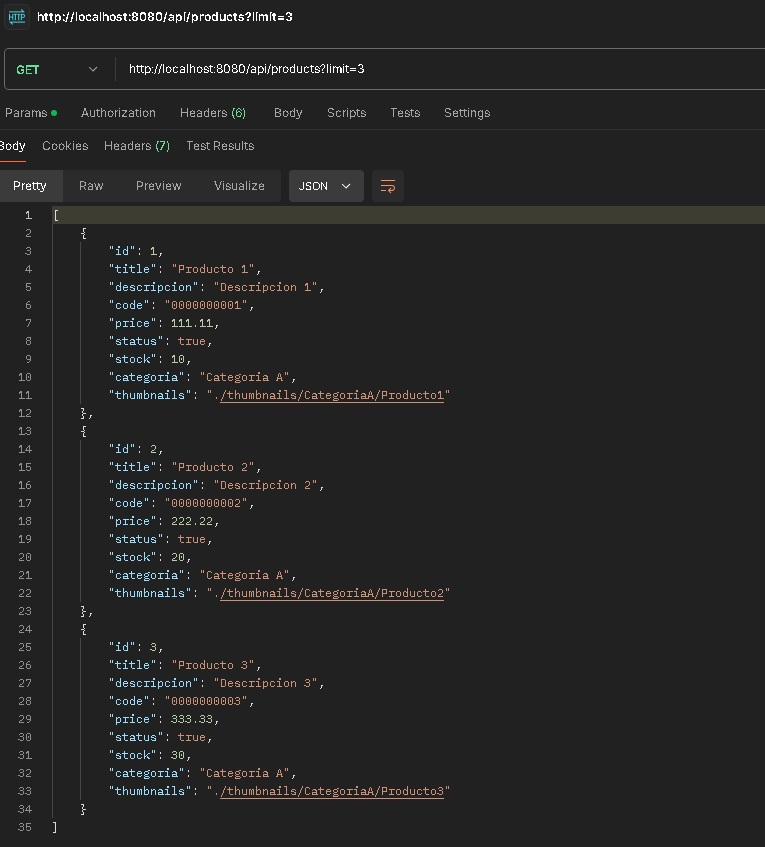
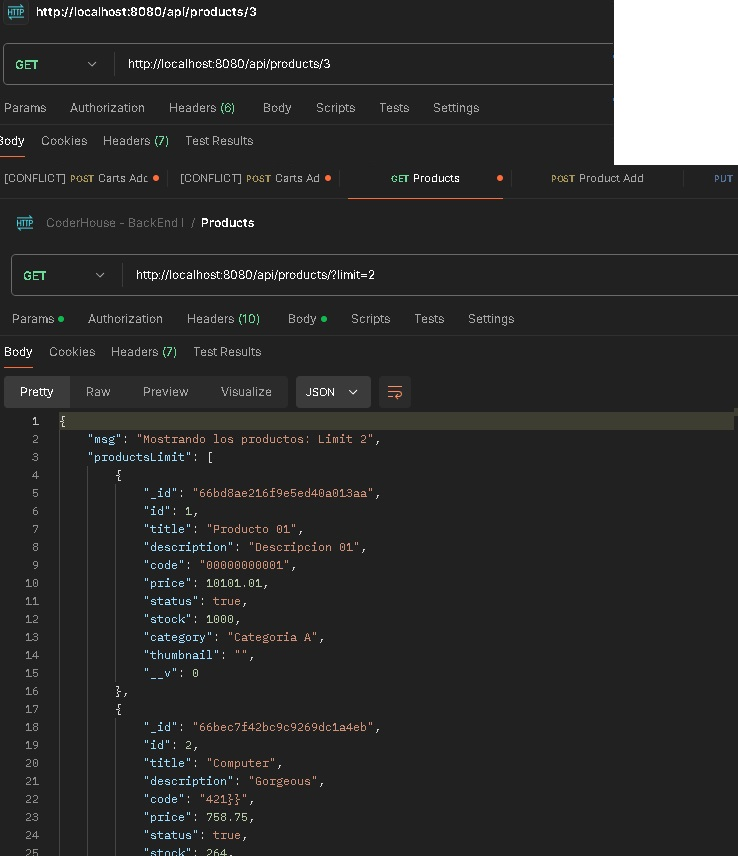
readme Productos

diff --git a/src/public/js/index.js b/src/public/js/index.js
@@ -1,5 +1,145 @@
-/* io hace referencia a socket.io */
-const socket = io()
+// Conectar al servidor de Socket.io
+const socket = io();
 
-socket.emit('message', 'Soy un mensaje enviado')
+// Escuchar eventos de conexión y desconexión
+socket.on("connect", () => {
+  console.log("Cliente conectado al servidor");
+});
 
+socket.on("disconnect", () => {
+  console.log("Cliente desconectado del servidor");
+});
+
+// Función para crear un nuevo carrito
+const createNewCart = async () => {
+  try {
+    const response = await fetch("/api/carts", {
+      method: "POST",
+      headers: {
+        "Content-Type": "application/json",
+      },
+    });
+
+    if (response.ok) {
+      const data = await response.json();
+      localStorage.setItem("cartId", data.newCart._id);
+      socket.emit("cartId", data.newCart._id);
+      tostada("!Bienvenido! Tu carrito te espera");
+      console.log(`Nuevo carrito creado con ID: ${data.newCart._id}`);
+      return data.newCart._id;
+    } else {
+      console.error("Error al crear el carrito:", response.statusText);
+      return null;
+    }
+  } catch (error) {
+    console.error("Error en la solicitud:", error);
+    return null;
+  }
+};
+
+// Verificar si el ID del carrito ya está en localStorage
+const getCartId = async () => {
+  let cartId = localStorage.getItem("cartId");
+
+  if (!cartId) {
+    cartId = await createNewCart();
+  }
+  socket.emit("cartId", cartId);
+
+  return cartId;
+};
+
+//Función de cantidad total en el carrito para obtener el cart count.
+const getQT = async () => {
+  let cartId = localStorage.getItem("cartId");
+  try {
+    const response = await fetch(`/api/carts/${cartId}/QT`);
+    if (response.ok) {
+      const data = await response.json();
+      cartCount.innerText = data.totalProductos;
+    } else {
+      console.error(`Error al cargar QT: ${response.statusText}`);
+    }
+  } catch (error) {
+    console.error("Error:", error);
+  }
+};
+
+const cartCount = document.getElementById("cartCount");
+if (cartCount) {
+  getQT();
+}
+
+// Escuchar actualizaciones de productos desde el servidor
+socket.on("Cart Update", (updatedCart) => {
+  console.log("Carrito actualizado:", updatedCart);
+  const cartCount = document.getElementById("cartCount");
+  if (cartCount) {
+    getQT();
+  }
+});
+
+// Función para actualizar el enlace del carrito
+const updateCartLink = async () => {
+  const cartId = await getCartId();
+  if (cartId) {
+    const cartLink = document.getElementById("cartLink");
+    cartLink.href = `/carts/${cartId}`;
+    console.log(`Carrito ya existente con ID: ${cartId}`);
+  }
+};
+
+// Función para agregar un producto al carrito
+const addToCart = async (productId) => {
+  const cartId = await getCartId();
+  if (cartId) {
+    try {
+      const response = await fetch(
+        `/api/carts/${cartId}/product/${productId}`,
+        {
+          method: "PUT",
+          headers: {
+            "Content-Type": "application/json",
+          },
+          body: JSON.stringify({ productId }),
+        }
+      );
+
+      if (response.ok) {
+        tostada("Producto agreado al carrito.");
+        socket.emit("Product Update", productId);
+      } else {
+        throw new Error("No se pudo agregar el producto al carrito");
+      }
+    } catch (error) {
+      console.error("Error:", error);
+      tostada("Error al agregar el producto al carrito");
+    }
+  }
+};
+
+// Escuchar el evento Product Update y actualizar la vista
+socket.on("Product Update", (updatedProduct) => {
+  console.log("Producto Actualizado:", updatedProduct);
+
+  const stockElement = document.querySelector(
+    `p[data-product-ids="${updatedProduct._id}"]`
+  );
+
+  if (stockElement) {
+    // Actualizar el stock en la vista
+    stockElement.innerHTML = `Stock: ${updatedProduct.stock}`;
+  }
+});
+
+// Añadir eventos a los botones de "Agregar al Carrito"
+document.addEventListener("DOMContentLoaded", () => {
+  updateCartLink();
+
+  document.querySelectorAll(".add-to-cart").forEach((button) => {
+    button.addEventListener("click", () => {
+      const productId = button.getAttribute("data-product-id");
+      addToCart(productId);
+    });
+  });
+});

diff --git a/src/app.js b/src/app.js
@@ -1,6 +1,7 @@
 import express from 'express'
 import mongoose from "mongoose";
 import handlebars from 'express-handlebars'
+
 import __dirname from './utils/utils.js'
 
 import homeRouter from './routes/home.routers.js'
@@ -8,6 +9,8 @@ import productsRouter from './routes/products.routers.js'
 import cartsRouter from './routes/carts.routers.js'
 
 import { Server } from 'socket.io'
+import { helpers } from "./utils/utils.js";
+
 const app = express()
 const PORT = 8080
 
@@ -27,17 +30,26 @@ mongoose
     console.error("Error: No se pudo conectar con la base de datos", error)
   );
 
+  // Crear instancia de Handlebars con helpers personalizados
+const hbs = handlebars.create({
+  helpers: helpers,
+  runtimeOptions: {
+    allowProtoPropertiesByDefault: true,
+  },
+});
+
 //Configurar Handlebars para leer el conrtenido de los endpoint
-app.engine('handlebars', handlebars.engine())
+app.engine('handlebars', hbs.engine)
 app.set('views', __dirname + '/../views') // Todo
+//console.log(__dirname + '../views')
 app.set('view engine', 'handlebars')
 
 //Utilizar recursos estaticos
-app.use(express.static(__dirname + '/public'))
+app.use(express.static(__dirname + '/../public'))
 
 //Ahora toda la logica de las vistas quedan en router
-app.use("/", productsRouter);
-app.use("/", cartsRouter);
+app.use("/api/products", productsRouter);
+app.use("/api/carts", cartsRouter);
 app.use('/', homeRouter)
 
 /*app.listen(PORT, () => {

diff --git a/src/utils/utils.js b/src/utils/utils.js
@@ -1,5 +1,6 @@
 import {fileURLToPath} from 'url'
 import {dirname} from 'path'
+import path from "path";
 
 const __filename = fileURLToPath(import.meta.url)
 const __dirname = dirname(__filename)
@@ -48,3 +49,9 @@ export async function getNextIdC() {
     throw error;
   }
 }
+
+//Helpers en handlebars
+export const helpers = {
+  eq: (a, b) => a == b,
+  add: (a, b) => a + b,
+};

diff --git a/src/public/js/tostify.js b/src/public/js/tostify.js
@@ -1,0 +1,12 @@
+function tostada(texto) {
+    Toastify({
+      text: texto,
+      duration: 2000,
+      gravity: "bottom", 
+      position: "right", 
+      style: {
+        background: "#cc7f53",
+        color: "black",
+      },
+    }).showToast();
+  }

diff --git a/src/routes/home.routers.js b/src/routes/home.routers.js
@@ -1,6 +1,7 @@
 import express from 'express'
 
-import productsModel from "../models/products.model.js";
+//import cartsModel from "../models/carts.model.js";
+import productsModel from "../models/products.model.js"; 
 
 const router = express.Router()
 

diff --git a/src/models/carts.model.js b/src/models/carts.model.js
@@ -21,3 +21,4 @@ const cartsSchema = new mongoose.Schema({
 const cartsModel = mongoose.model(cartsCollection, cartsSchema);
 
 export default cartsModel;
+
